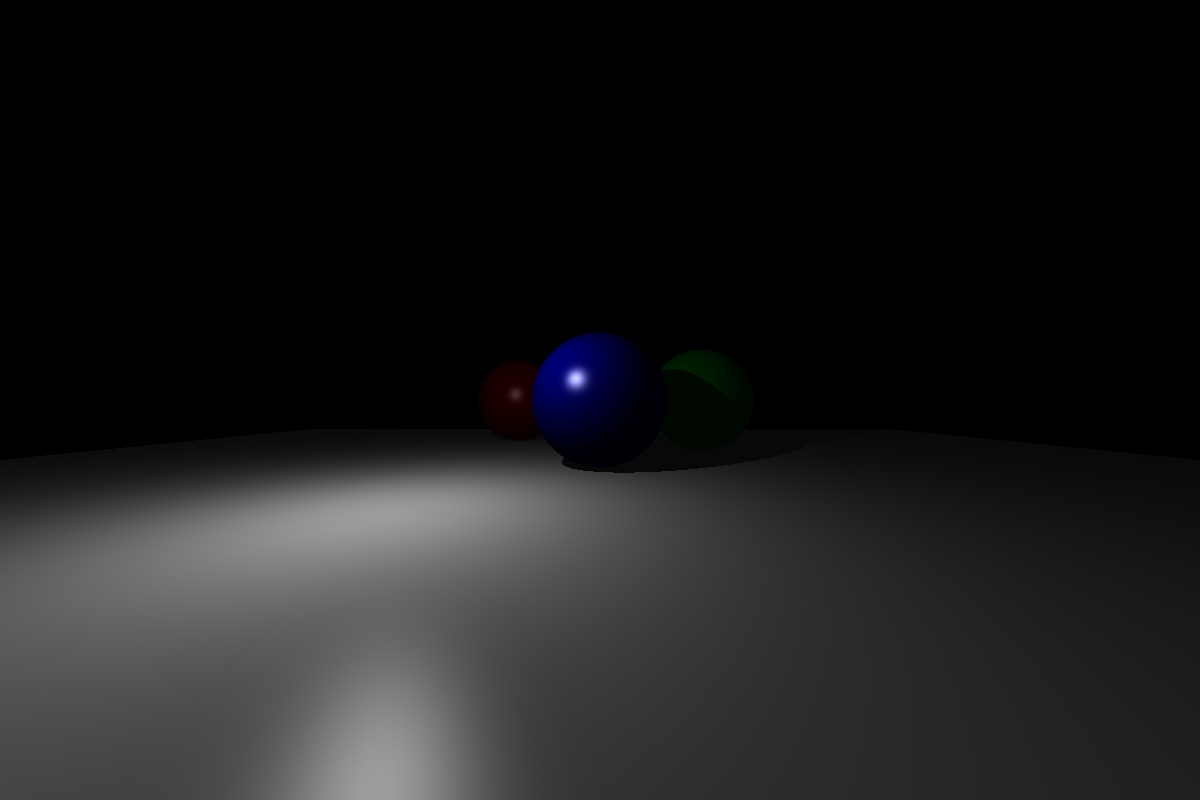
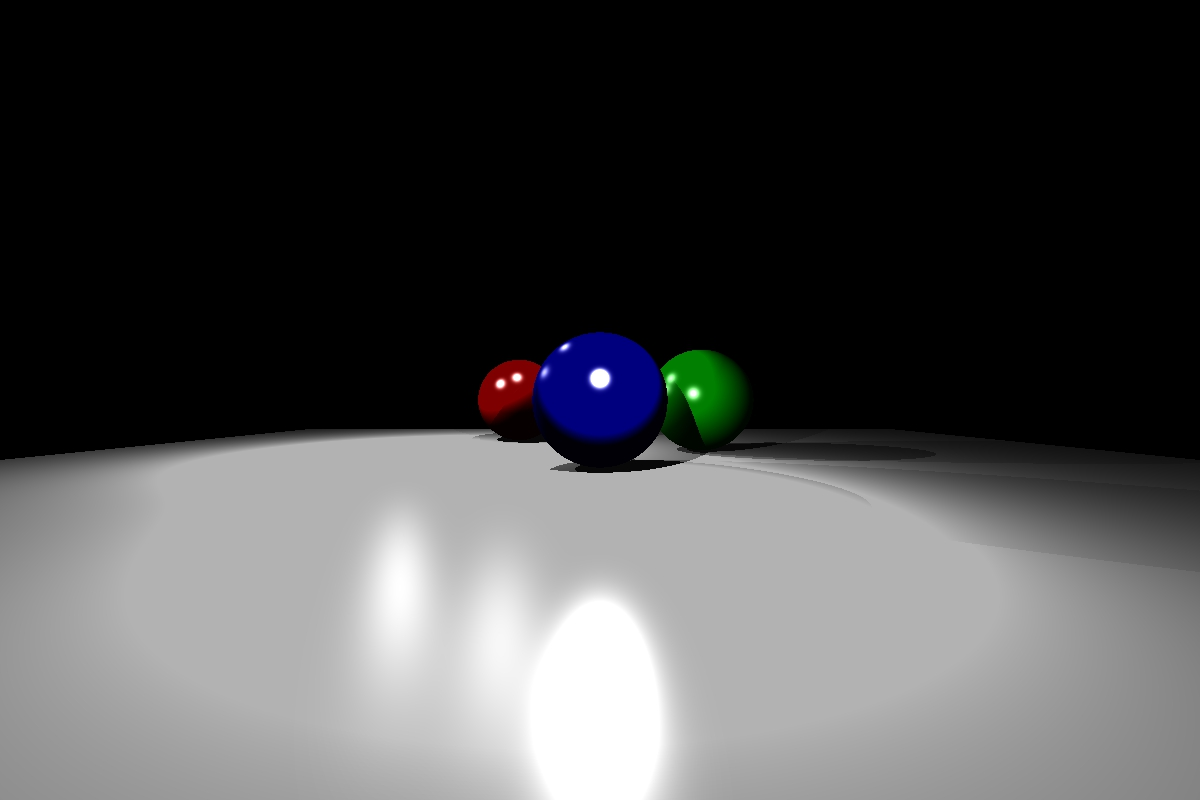
more work

diff --git a/src/SceneObjects.h b/src/SceneObjects.h
@@ -21,6 +21,7 @@ public:
 	virtual void setRot(const glm::vec3& newRot) = 0;
 	virtual glm::vec3 getDiffuse() const = 0;
 	virtual glm::vec3 getSpec() const = 0;
+	virtual glm::vec2 getUV(const glm::vec3& v) const { return glm::vec2(); }
 };
 
 class Sphere : public SceneObject
@@ -40,6 +41,7 @@ public:
 	void setRot(const glm::vec3& newRot);
 	glm::vec3 getDiffuse() const;
 	glm::vec3 getSpec() const;
+	glm::vec2 getUV(const glm::vec3& v) const;
 };
 
 class Plane : public SceneObject
@@ -66,8 +68,10 @@ class FinitePlane :public Plane
 {
 	float roll = 0.0f;
 	glm::vec2 bounds = glm::vec2(1000,1000);
+	glm::vec2 textureWrap = glm::vec2(6,6);
 public:
 	FinitePlane(const glm::vec3&, const glm::vec3&, const glm::vec3&, const glm::vec3&, Shader*, float, const glm::vec2& dim);
 	RayHit castRay(const Ray& ray) const;
+	glm::vec2 getUV(const glm::vec3& v) const;
 	void draw() const;
 };

diff --git a/src/SceneObjects.cpp b/src/SceneObjects.cpp
@@ -140,3 +140,21 @@ void FinitePlane::draw() const {
 	plane.drawWireframe();
 	ofPopMatrix();
 }
+
+glm::vec2 FinitePlane::getUV(const glm::vec3& v) const
+{
+	glm::vec2 uv;
+	if (glm::normalize(this->norm) != glm::vec3(0.0f, 0.0f, 1.0f) || roll != 0.0f)
+	{
+		auto transMat = v * glm::angleAxis(-glm::radians(this->roll), this->norm);
+		transMat = transMat * glm::angleAxis(-glm::dot(this->norm, glm::vec3(0.0f, 0.0f, 1.0f)), glm::cross(this->norm, glm::vec3(0.0f, 0.0f, 1.0f)));
+		transMat = transMat - pos + bounds/2;
+		uv = glm::vec2(transMat.x / (bounds.x / textureWrap.x), transMat.z / (bounds.y / textureWrap.y));
+	}
+	else
+	{
+		auto transMat = v - pos + bounds/2;
+		uv = glm::vec2(v.x / (bounds.x / textureWrap.x), v.z / (bounds.y / textureWrap.y));
+	}
+	return uv;
+}
